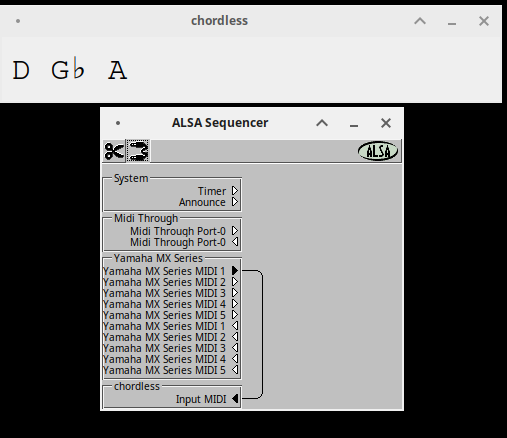
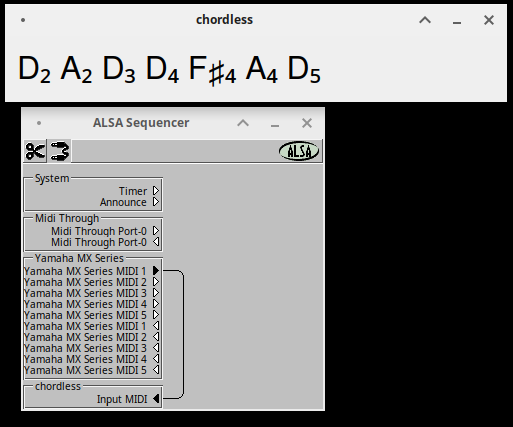
Polymorphic note namers. Scientific note notation (octave numerals). Helvetica font for better subscripts. Update screenshot.

diff --git a/note/test_scientific_note_namer.cc b/note/test_scientific_note_namer.cc
@@ -1,0 +1,45 @@
+#include "scientific_note_namer.h"
+
+#include <gtest/gtest.h>
+#include <string>
+
+TEST(ScientificNoteNamerTest, NameMiddleC) {
+  chordless::note::ScientificNoteNamer namer;
+  ASSERT_EQ(std::string("C\u2084"), namer.Name(0x3c, true));
+}
+
+// The highest note on a standard 88-key piano
+TEST(ScientificNoteNamerTest, NameHighestC) {
+  chordless::note::ScientificNoteNamer namer;
+  ASSERT_EQ(std::string("C\u2088"), namer.Name(0x6c, true));
+}
+
+// The lowest note on a standard 88-key piano
+TEST(ScientificNoteNamerTest, NameLowestA) {
+  chordless::note::ScientificNoteNamer namer;
+  ASSERT_EQ(std::string("A\u2080"), namer.Name(0x15, true));
+}
+
+// C0 note
+TEST(ScientificNoteNamerTest, NameCZero) {
+  chordless::note::ScientificNoteNamer namer;
+  ASSERT_EQ(std::string("C\u2080"), namer.Name(0x0c, true));
+}
+
+// C9 note
+TEST(ScientificNoteNamerTest, NameCNine) {
+  chordless::note::ScientificNoteNamer namer;
+  ASSERT_EQ(std::string("C\u2089"), namer.Name(0x78, true));
+}
+
+// Lowest MIDI note
+TEST(ScientificNoteNamerTest, NameLowestNote) {
+  chordless::note::ScientificNoteNamer namer;
+  ASSERT_EQ(std::string("C\u208B\u2081"), namer.Name(0x00, true));
+}
+
+// Highest MIDI note
+TEST(ScientificNoteNamerTest, NameHighestNote) {
+  chordless::note::ScientificNoteNamer namer;
+  ASSERT_EQ(std::string("G\u2089"), namer.Name(0x7F, true));
+}

diff --git a/note/full_voicing_observer.cc b/note/full_voicing_observer.cc
@@ -1,28 +1,31 @@
 #include "full_voicing_observer.h"
 
-#include "note_name.h"
+#include "basic_note_namer.h"
+#include "note_state.h"
 #include "../ui/text_setter.h"
-#include "../note/note_state.h"
+
 
 #include <sstream>
 #include <string>
 #include <vector>
 
-namespace chordless {
-  namespace note {
-    FullVoicingObserver::FullVoicingObserver(NoteState &ns, chordless::ui::TextSetter &ts) :
-      note_state_(ns), text_setter_(ts)
-    {}
+namespace chordless::note {
+  FullVoicingObserver::FullVoicingObserver(NoteState &ns, chordless::ui::TextSetter &ts) :
+    note_state_(ns), text_setter_(ts), note_namer_(new BasicNoteNamer())
+  {}
 
-    void FullVoicingObserver::Observe() noexcept {
-      std::vector<unsigned char> notes;
-      note_state_.GetNotes(notes);
+  void FullVoicingObserver::Observe() noexcept {
+    std::vector<unsigned char> notes;
+    note_state_.GetNotes(notes);
 
-      std::ostringstream ss;
-      for (auto n : notes) {
-	ss << NoteName::Name(n, false) << " ";
-      }
-      text_setter_.SetText(ss.str());
+    std::ostringstream ss;
+    for (auto n : notes) {
+      ss << note_namer_->Name(n, true) << " ";
     }
+    text_setter_.SetText(ss.str());
+  }
+
+  void FullVoicingObserver::SetNoteNamer(std::unique_ptr<NoteNamer> &&n) noexcept {
+    note_namer_ = std::move(n);
   }
 }

diff --git a/note/basic_note_namer.cc b/note/basic_note_namer.cc
@@ -1,0 +1,34 @@
+#include "basic_note_namer.h"
+
+namespace chordless::note {
+  std::string BasicNoteNamer::Name(unsigned char note, bool sharp) noexcept {
+    auto pitch_class = static_cast<int>(note) % 12;
+    switch (pitch_class) {
+    case 0:
+      return std::string("C");
+    case 1:
+      return sharp ? std::string("C♯") : std::string("D♭");
+    case 2:
+      return std::string("D");
+    case 3:
+      return sharp ? std::string("D♯") : std::string("E♭");
+    case 4:
+      return std::string("E");
+    case 5:
+      return std::string("F");
+    case 6:
+      return sharp ? std::string("F♯") : std::string("G♭");
+    case 7:
+      return std::string("G");
+    case 8:
+      return sharp ? std::string("G♯") : std::string("A♭");
+    case 9:
+      return std::string("A");
+    case 10:
+      return sharp ? std::string("A♯") : std::string("B♭");
+    case 11:
+      return std::string("B");
+    };
+    return std::string("Impossible pitch");
+  }
+}

diff --git a/note/scientific_note_namer.cc b/note/scientific_note_namer.cc
@@ -1,0 +1,46 @@
+#include "scientific_note_namer.h"
+
+namespace chordless::note {
+  std::string ScientificNoteNamer::Name(unsigned char note, bool sharp) noexcept {
+    const auto octave = static_cast<int>(note / 12) - 1;
+    auto name = base_namer_.Name(note, sharp);
+    switch (octave) {
+    case -1:
+      name.append("\u208B\u2081");
+      break;
+    case 0:
+      name.append("\u2080");
+      break;
+    case 1:
+      name.append("\u2081");
+      break;
+    case 2:
+      name.append("\u2082");
+      break;
+    case 3:
+      name.append("\u2083");
+      break;
+    case 4:
+      name.append("\u2084");
+      break;
+    case 5:
+      name.append("\u2085");
+      break;
+    case 6:
+      name.append("\u2086");
+      break;
+    case 7:
+      name.append("\u2087");
+      break;
+    case 8:
+      name.append("\u2088");
+      break;
+    case 9:
+      name.append("\u2089");
+      break;
+    default:
+      name.append("?");
+    }
+    return name;
+  }
+}

diff --git a/main.cc b/main.cc
@@ -2,6 +2,7 @@
 #include "note/full_voicing_observer.h"
 #include "note/note_state.h"
 #include "note/note_reader.h"
+#include "note/scientific_note_namer.h"
 #include "ui/chord_label.h"
 
 #include <QApplication>
@@ -29,11 +30,12 @@ int main(int argc, char **argv) {
   auto label = new chordless::ui::ChordLabel(&window);
   label->setGeometry(label_x, label_y, label_w, label_h);
 
-  QFont font("Courier", 24);
+  QFont font("Helvetica", 24);
   label->setFont(font);
 
   chordless::note::NoteState note_state;
   chordless::note::FullVoicingObserver full_voicing(note_state, *label);
+  full_voicing.SetNoteNamer(std::unique_ptr<chordless::note::NoteNamer>(new chordless::note::ScientificNoteNamer()));
   chordless::note::NoteReader note_reader(alsa_input, note_state);
   note_reader.AddObserver(full_voicing);
   note_reader.Run();

diff --git a/note/test_basic_note_namer.cc b/note/test_basic_note_namer.cc
@@ -1,0 +1,37 @@
+#include "basic_note_namer.h"
+
+#include <gtest/gtest.h>
+#include <string>
+
+class NoteNameTest : public testing::Test {
+protected:
+  chordless::note::BasicNoteNamer namer;
+};
+
+TEST_F(NoteNameTest, NameMiddleC) {
+  ASSERT_EQ(std::string("C"), namer.Name(0x3c));
+}
+
+TEST_F(NoteNameTest, NameBassC) {
+  ASSERT_EQ(std::string("C"), namer.Name(0x30));
+}
+
+TEST_F(NoteNameTest, NameSubA) {
+  ASSERT_EQ(std::string("A"), namer.Name(0x15));
+}
+
+TEST_F(NoteNameTest, NameZero) {
+  ASSERT_EQ(std::string("C"), namer.Name(0));
+}
+
+TEST_F(NoteNameTest, NameLowA) {
+  ASSERT_EQ(std::string("A"), namer.Name(0x2d));
+}
+
+TEST_F(NoteNameTest, NameLowASh) {
+  ASSERT_EQ(std::string("A♯"), namer.Name(0x2e));
+}
+
+TEST_F(NoteNameTest, NameLowBFl) {
+  ASSERT_EQ(std::string("B♭"), namer.Name(0x2e, false));
+}

diff --git a/note/full_voicing_observer.h b/note/full_voicing_observer.h
@@ -2,6 +2,10 @@
 
 #include "note_observer.h"
 
+#include "note_namer.h"
+
+#include <memory>
+
 namespace chordless {
   namespace ui {
     class TextSetter;
@@ -15,6 +19,8 @@ namespace chordless {
       explicit FullVoicingObserver(NoteState&, chordless::ui::TextSetter&);
 
       void Observe() noexcept;
+
+      void SetNoteNamer(std::unique_ptr<NoteNamer>&&) noexcept;
       
       FullVoicingObserver(const FullVoicingObserver&) = delete;
       FullVoicingObserver& operator=(const FullVoicingObserver&) = delete;
@@ -22,6 +28,7 @@ namespace chordless {
     private:
       NoteState& note_state_;
       chordless::ui::TextSetter &text_setter_;
+      std::unique_ptr<NoteNamer> note_namer_;
     };
   }
 }

diff --git a/note/scientific_note_namer.h b/note/scientific_note_namer.h
@@ -1,0 +1,17 @@
+#pragma once
+
+#include "note_namer.h"
+
+#include "basic_note_namer.h"
+
+#include <string>
+
+namespace chordless::note {
+  class ScientificNoteNamer : public NoteNamer {
+  public:
+    std::string Name(unsigned char note, bool sharp) noexcept override;
+
+  private:
+    BasicNoteNamer base_namer_;
+  };
+}

diff --git a/ui/mock/mock_text_setter.h b/ui/mock/mock_text_setter.h
@@ -1,0 +1,11 @@
+#pragma once
+
+#include "../text_setter.h"
+
+namespace chordless::ui {
+  class MockTextSetter : public chordless::ui::TextSetter {
+  public:
+    void SetText(const std::string &text) override { text_ = text; }
+    std::string text_;
+  };
+}

diff --git a/note/basic_note_namer.h b/note/basic_note_namer.h
@@ -1,0 +1,12 @@
+#pragma once
+
+#include "note_namer.h"
+
+#include <string>
+
+namespace chordless::note {
+  class BasicNoteNamer : public NoteNamer {
+  public:
+    std::string Name(unsigned char note, bool sharp = true) noexcept override;
+  };
+}

diff --git a/note/note_namer.h b/note/note_namer.h
@@ -1,0 +1,10 @@
+#pragma once
+
+#include <string>
+
+namespace chordless::note {
+  class NoteNamer {
+  public:
+    virtual std::string Name(unsigned char note, bool sharp = true) noexcept = 0;
+  };
+}

diff --git a/README.md b/README.md
@@ -9,6 +9,7 @@ Tht initial project goals are not yet completed.
 - Display currently "on" notes from a MIDI instrument (done)
 - Display chord names matching the note structure (not done)
 - Customize displayed info using GUI controls (not done)
+- Conform to the [Google C++ Style Guide](https://google.github.io/styleguide/cppguide.html).
 
 ### Dependencies
 - Qt 6.3+ for GUI
